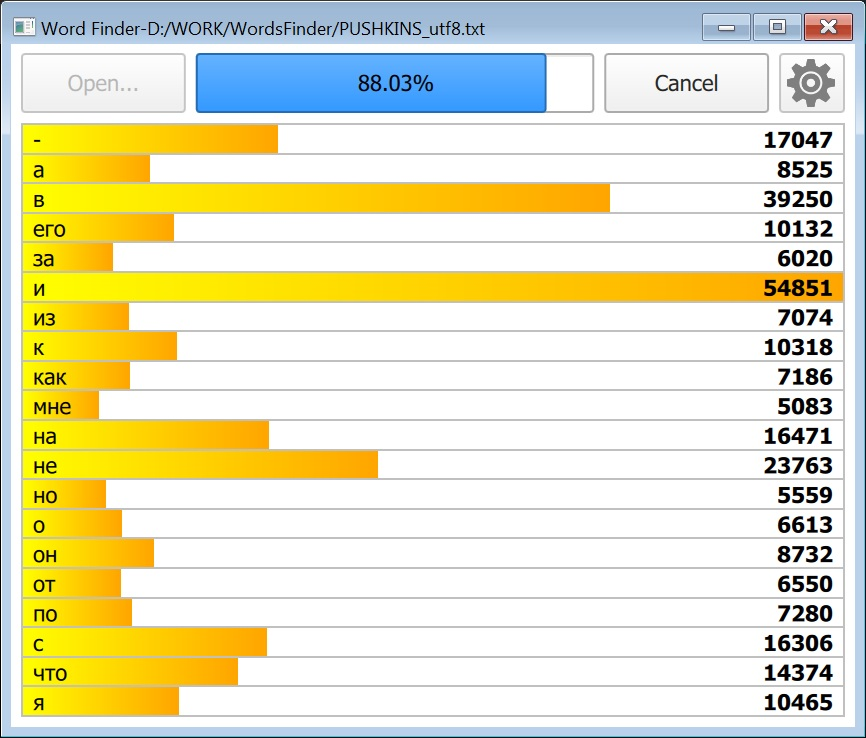
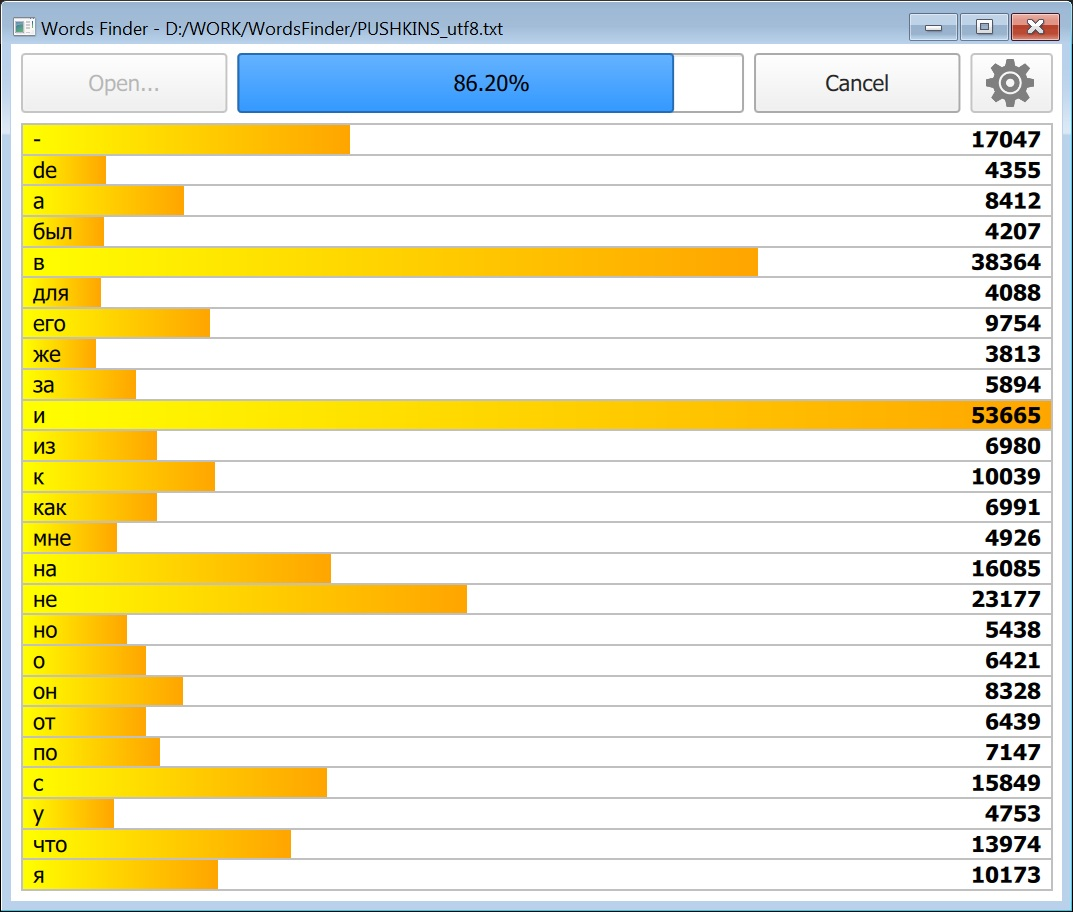
Window title fixed

diff --git a/main.qml b/main.qml
@@ -143,7 +143,7 @@ Window {
             path = path.replace(/^(file:\/{3})|(qrc:\/{2})|(http:\/{2})/,"");
             path = decodeURIComponent(path);
 
-            window.title = qsTr("Word Finder") + "-" + path;
+            window.title = qsTr("Words Finder") + " - " + path;
 
             manager.openFile(path)
         }
